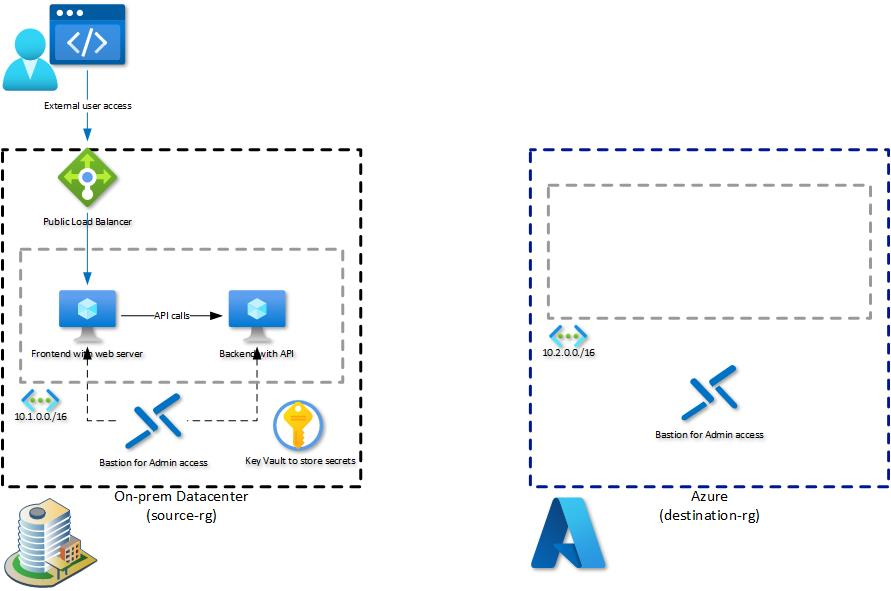
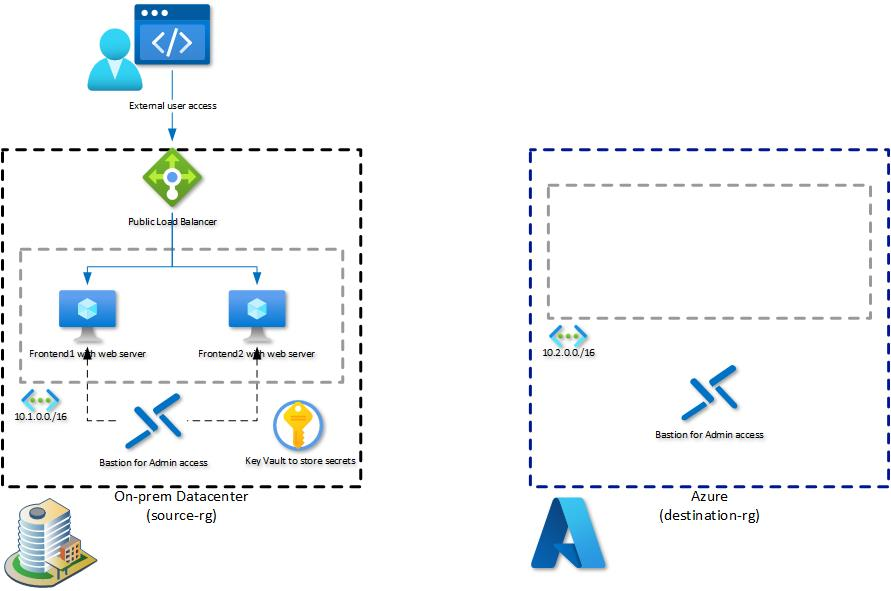
Update Visio Drawings

diff --git a/03-Azure/01-03-Infrastructure/06_Migration_Datacentre_Modernization/walkthrough/challenge-5/solution.md b/03-Azure/01-03-Infrastructure/06_Migration_Datacentre_Modernization/walkthrough/challenge-5/solution.md
@@ -134,7 +134,7 @@ The last step is to finalize the registration. Refresh the Azure Portal page whe
 ### **Task 3: Install the Mobility service on the source server**
 
 On machines you want to migrate, you need to install the Mobility service agent. The agent installers are available on the replication appliance in the *%ProgramData%\ASR\home\svsystems\pushinstallsvc\repository* directory.
-To install the Mobility service agent on the Windows machne follow the following steps
+To install the Mobility service agent on the Windows machines follow the following steps
 
 1. Sign in to the replication appliance.
 2. Navigate to %ProgramData%\ASR\home\svsystems\pushinstallsvc\repository.
@@ -185,5 +185,10 @@ To install the Mobility service agent on the Windows machne follow the following
 
 
 You successfully completed challenge 5! 🚀🚀🚀
+
+The deployed architecture now looks like the following diagram.
+
+![image](./img/Challenge-5.jpg)
+
 
  **[Home](../../Readme.md)** - [Next Challenge Solution](../challenge-5/solution.md)
